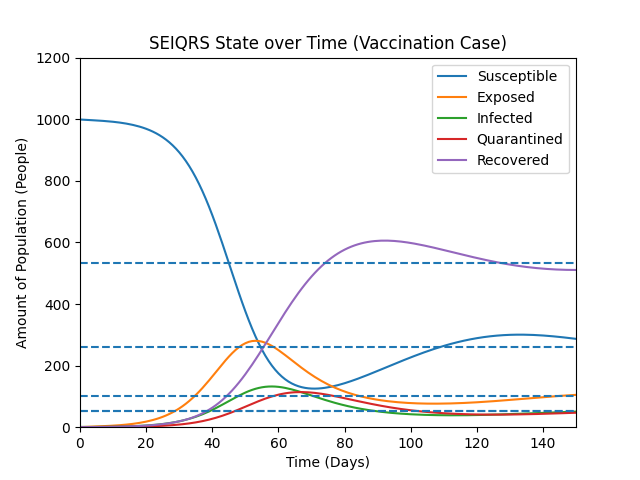
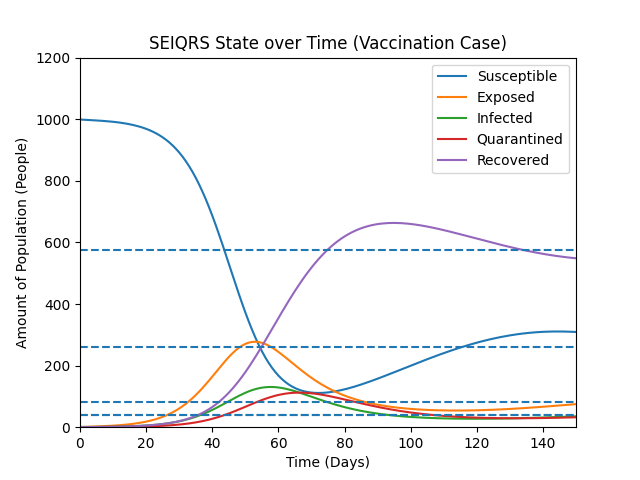
Max Infected, Quarantined, and Cases

diff --git a/seiqrs.py b/seiqrs.py
@@ -5,7 +5,7 @@ import matplotlib.pyplot as plt
 from r_plot import r_plot
 
 # Test Case
-test_case = 'Lockdown'
+test_case = 'Control'
 print(f'Test Case: {test_case}')
 
 # Total population, N.
@@ -15,7 +15,7 @@ E0, I0, Q0, R0 = 0, 1, 0, 0
 # Everyone else, S0, is susceptible to infection initially.
 S0 = N - E0 - I0 - Q0 - R0 
 # Contact rate(beta), incubation period(phi, in 1/days), quarantine rate(zeta, in 1/days), mean recovery rate in non-quarantine(gamma, in 1/days), mean recovery rate in quarantine(kappa, in 1/days), and immunity wearoff rate(mu, in 1/days).
-beta, phi, zeta, gamma, kappa, mu = 0.9*0.7, 1./10, (1./10), 1./10, 1./10, (1./60)
+beta, phi, zeta, gamma, kappa, mu = 0.9, 1./10, (1./10), 1./10, 1./10, (1./60)
 # A grid of time points (in days)
 t = np.linspace(0, 160*10, 160*10)
 
@@ -48,6 +48,9 @@ Qe = (zeta*Ie)/(kappa)
 Re = (Ie*(gamma+zeta))/mu
 
 print(f'Se: {Se}, Ee: {Ee}, Ie: {Ie}, Qe: {Qe}, Re: {Re}')
+
+print(f'Imax = {max(I)}')
+print(f'Cases(max) = {max(I+Q)}')
 
 # R Plot
 r_vals = r_plot(S, N, beta, gamma, zeta)

diff --git a/sir_test.py b/sir_test.py
@@ -35,7 +35,7 @@ S, I, R = ret.T
 
 # R Plot
 r = (beta*S)/(gamma*N)
-plt.xlim(0, 150)
+plt.xlim(0, 70)
 plt.ylim(0, 10)
 plt.plot(t, r, label = "Reproductive Number")
 plt.axhline(y = 1, linestyle = '--')
@@ -43,11 +43,14 @@ plt.legend(loc='upper right')
 plt.show()
 
 # Plot the data on three separate curves for S(t), I(t) and R(t)
-plt.xlim(0, 150)
+plt.xlim(0, 70)
 plt.ylim(0, 1200)
 plt.plot(t, S, label = "Susceptible")
 plt.plot(t, I, label = "Infected")
 plt.plot(t, R, label = "Recovered")
+plt.title(f'SIR State over Time')
+plt.xlabel('Time (Days)')
+plt.ylabel('Amount of Population (People)')
 plt.legend(loc='upper right')
 plt.show()
 
